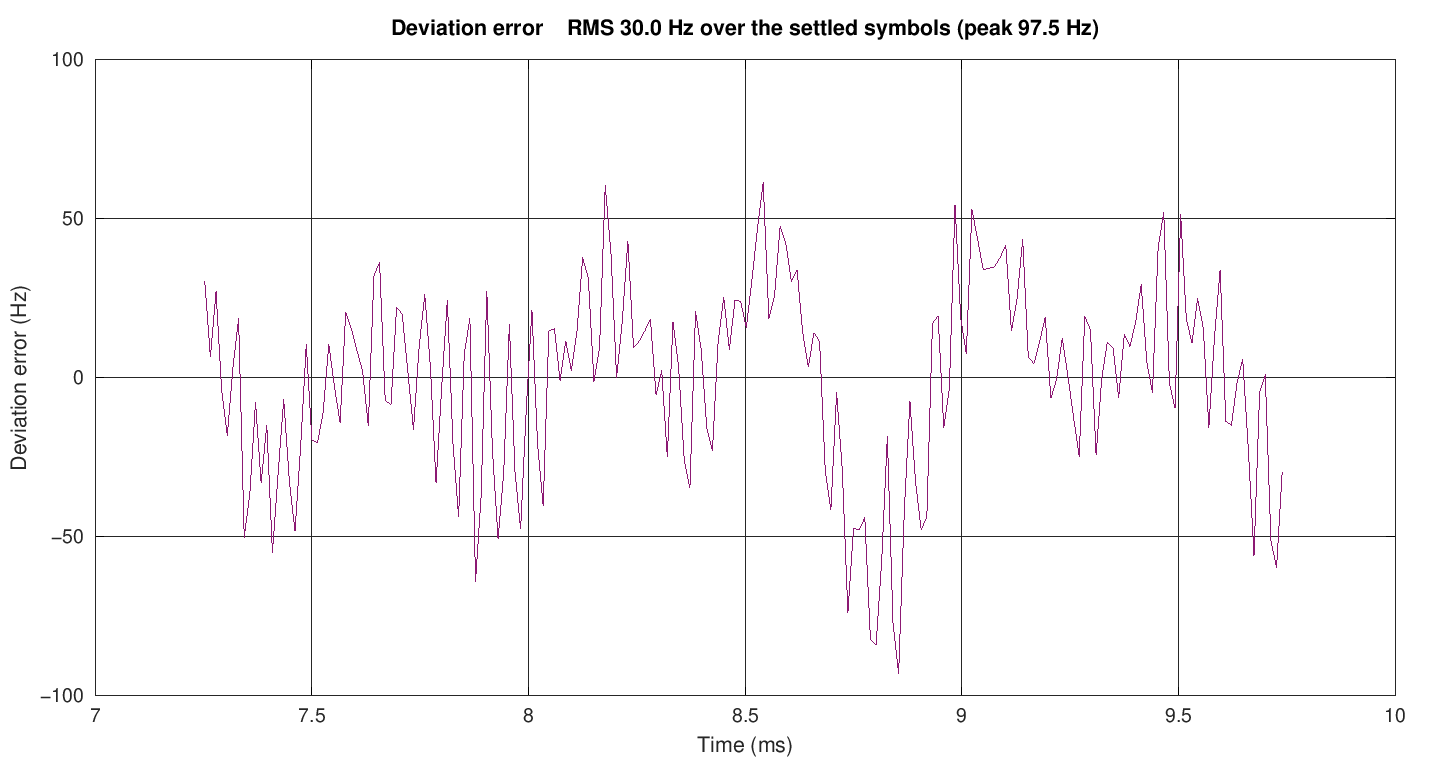
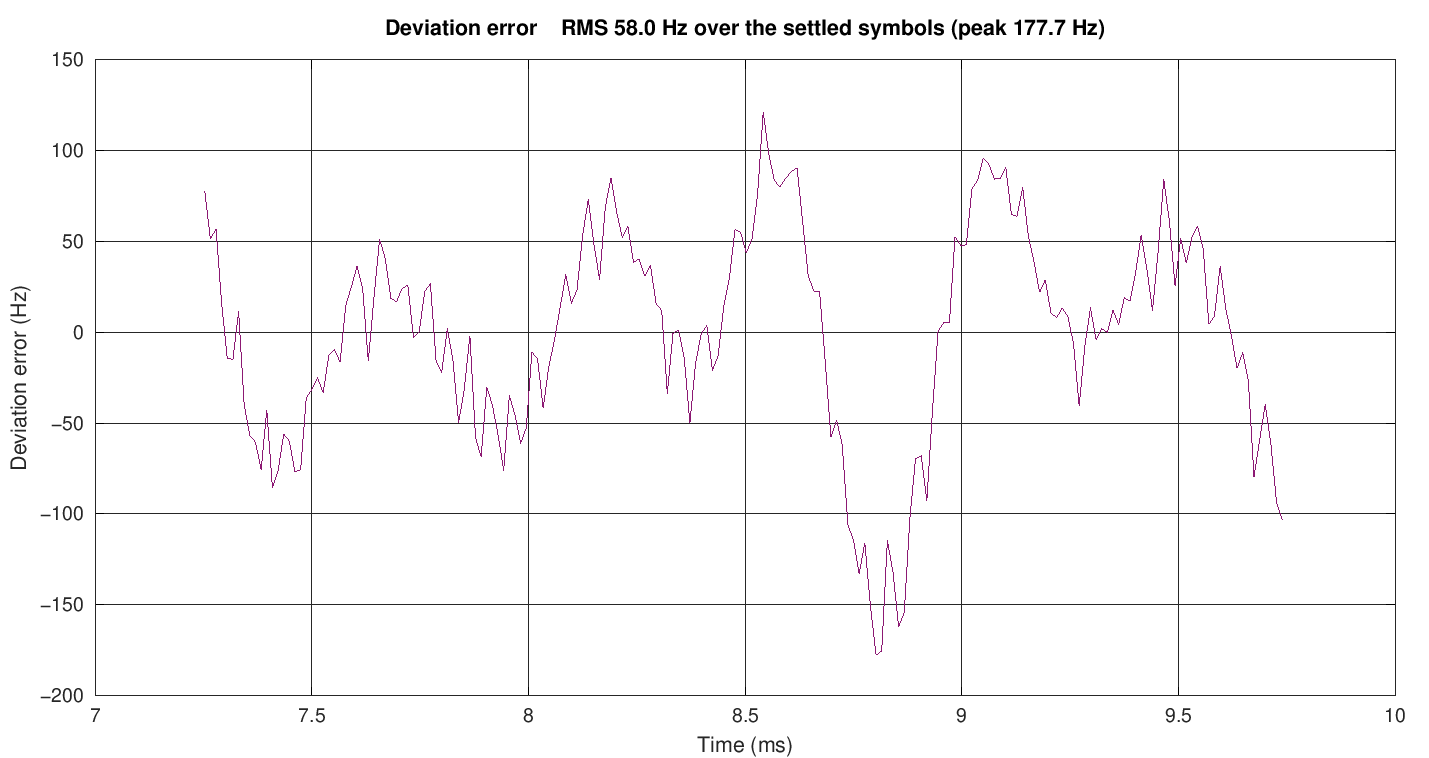
Soften the H-channel pre-emphasis shelf to about +8 dB.
The +16 dB lead matched SMF phase but lifted alternate-channel ACPR to -70.7 dBc. A +8 dB shelf keeps waveform FSK error at 1.66% and brings the mask alternate channel to -78.3 dBc.

diff --git a/dmr-2pt-synth/design_h_preemph.m b/dmr-2pt-synth/design_h_preemph.m
@@ -2,23 +2,25 @@ function [b, a, info] = design_h_preemph(fs, smfB, smfA)
 %DESIGN_H_PREEMPH  Band-limited inverse of the discrete SMF, for the H path.
 %  The 3rd-order SMF is almost unity gain through 6 kHz and lags by about
 %  15 deg at 3 kHz and 30 deg at 6 kHz. Its exact inverse has a triple pole
-%  at z = -1 and runs away at Nyquist. This 2nd-order lead matches 1/Gsmf
-%  from about 1 to 6 kHz (phase lead plus the small in-band boost) and
-%  levels off near +14 dB, so the boost above the DMR band stays finite.
+%  at z = -1 and runs away at Nyquist. This 2nd-order lead keeps a useful
+%  share of that phase through 3-6 kHz and levels off near +8 dB, so the
+%  12-bit step edges around 20-25 kHz are not boosted into the alternate
+%  channel. A tighter phase match (shelf near +16 dB) costs about 8 dB of
+%  alternate-channel ACPR. The loop bandwidth and phase margin are not
+%  part of this fit.
 %
 %  Analog prototype, DC gain 1, high-frequency gain (fp/fz)^2:
 %    H(s) = (fp/fz)^2 * (s^2 + (wz/Qz) s + wz^2) / (s^2 + (wp/Qp) s + wp^2)
-%  Corners were fitted at fs = 76800 Hz against the bilinear SMF. The loop
-%  bandwidth and phase margin are not part of this fit.
+%  Corners were fitted at fs = 76800 Hz against the bilinear SMF.
 
 if nargin < 1
     fs = 76800;
 end
 
-fz = 11952;
-gainRatio = 2.220;     % wp/wz; high-frequency magnitude gain is gainRatio^2
-Qz = 0.801;
-Qp = 1.247;
+fz = 7704.206;
+gainRatio = 1.55322;   % wp/wz; high-frequency magnitude gain is gainRatio^2
+Qz = 0.8601;
+Qp = 0.8980;
 wz = 2 * pi * fz;
 wp = wz * gainRatio;
 bb = (wp / wz)^2 * [1, wz / Qz, wz^2];
@@ -33,7 +35,7 @@ info.hfGain_dB = 20 * log10(gainRatio^2);
 info.b = b;
 info.a = a;
 
-probe = [3000, 6000];
+probe = [3000, 6000, 20000, 25000];
 for k = 1:numel(probe)
     [gdB, pd, pdSmf, gdProd, pdProd] = eval_at(b, a, smfB, smfA, fs, probe(k));
     info.(sprintf('f%d_Hz', probe(k))) = probe(k);

diff --git a/dmr-2pt-synth/plot_results.m b/dmr-2pt-synth/plot_results.m
@@ -21,7 +21,7 @@ i1 = R.iEx1;
 tex = tms(i0:i1);
 
 % ---- 1. baseband m(t) and symbol levels ----
-h = figure('visible', 'off');
+h = figure('visible', 'off', '__graphics_toolkit__', 'gnuplot');
 set(h, 'position', [40 40 980 520]);
 plot(tex, R.m(i0:i1), 'Color', [0.1 0.1 0.1], 'LineWidth', 1.3);
 hold on;
@@ -43,7 +43,7 @@ ylim([-3200 3200]);
 save_png(h, figDir, mediaDir, '01_baseband_mt_symbols.png');
 
 % ---- 2. each path's contribution ----
-h = figure('visible', 'off');
+h = figure('visible', 'off', '__graphics_toolkit__', 'gnuplot');
 set(h, 'position', [40 40 980 560]);
 plot(tex, R.m(i0:i1), 'Color', [0.45 0.45 0.45], 'LineWidth', 1.4);
 hold on;
@@ -59,7 +59,7 @@ legend('ideal m_q', 'PLL path only (lowpass)', 'VCO path only (highpass)', ...
 save_png(h, figDir, mediaDir, '02_path_contributions.png');
 
 % ---- 3. combined vs ideal, with lock ----
-h = figure('visible', 'off');
+h = figure('visible', 'off', '__graphics_toolkit__', 'gnuplot');
 set(h, 'position', [40 40 980 720]);
 subplot(2, 1, 1);
 acq = 1:R.nAcq;
@@ -80,7 +80,7 @@ legend('ideal m_q', 'synthesizer output', 'location', 'northeast');
 save_png(h, figDir, mediaDir, '03_combined_vs_ideal.png');
 
 % ---- 4. deviation error ----
-h = figure('visible', 'off');
+h = figure('visible', 'off', '__graphics_toolkit__', 'gnuplot');
 set(h, 'position', [40 40 980 520]);
 errEx = R.both.fDevRf(i0:i1) - R.m(i0:i1);
 plot(tex, errEx, 'Color', [0.55 0.1 0.45], 'LineWidth', 1.1);
@@ -92,7 +92,7 @@ title(sprintf('Deviation error    RMS %.1f Hz over the settled symbols (peak %.1
 save_png(h, figDir, mediaDir, '04_deviation_error.png');
 
 % ---- 5. output spectrum ----
-h = figure('visible', 'off');
+h = figure('visible', 'off', '__graphics_toolkit__', 'gnuplot');
 set(h, 'position', [40 40 980 720]);
 iv0 = R.iValid0;
 iv1 = R.iValid1;

diff --git a/dmr-2pt-synth/measure_fsk_acpr.m b/dmr-2pt-synth/measure_fsk_acpr.m
@@ -56,6 +56,12 @@ symInSlice = symSample - i0 + 1;
 fFloat = m(i0:i1);
 fCmd = mCmd(i0:i1);
 fSynth = out.fDevRf(i0:i1);
+out.hFullScale_Hz = 2047 * P.Km_HzPerV * P.dacVpp / (P.divSel * 4096);
+out.steadyMh_Hz = max(abs(out.m_h(iValid0:iValid1)));
+fprintf('  Hch full scale %.2f Hz, steady |m_h| %.2f Hz, headroom peak %.2f dB, steady %.2f dB\n', ...
+    out.hFullScale_Hz, out.steadyMh_Hz, ...
+    20 * log10(out.hFullScale_Hz / out.peakMh_Hz), ...
+    20 * log10(out.hFullScale_Hz / out.steadyMh_Hz));
 
 % Three fits. The reference is the second argument.
 fprintf('Fitting synthesizer vs pre-quantization m...\n');
@@ -271,7 +277,7 @@ fprintf('\n');
 end
 
 function plot_fsk(P, Rsm, Rsq, Rqm, symLevel)
-h = figure('visible', 'off');
+h = figure('visible', 'off', '__graphics_toolkit__', 'gnuplot');
 set(h, 'position', [40 40 980 760]);
 cM = [0.45 0.45 0.45];
 cQ = [0.75 0.35 0.05];
@@ -308,7 +314,7 @@ save_png(h, P, '06_fsk_error.png');
 end
 
 function plot_acpr(P, specM, specQ, specS, acM, acQ, acS)
-h = figure('visible', 'off');
+h = figure('visible', 'off', '__graphics_toolkit__', 'gnuplot');
 set(h, 'position', [40 40 980 640]);
 ref = max(specM.p);
 dbM = 10 * log10(specM.p / ref + 1e-30);
@@ -367,6 +373,8 @@ fprintf(fid, 'hpre_nyquist_dB %.4f\n', P.hpre.nyquist_dB);
 fprintf(fid, 'hch_clips %d\n', simOut.nDacClip);
 fprintf(fid, 'peak_mh_Hz %.4f\n', simOut.peakMh_Hz);
 fprintf(fid, 'peak_mq_Hz %.4f\n', simOut.peakMq_Hz);
+fprintf(fid, 'steady_mh_Hz %.4f\n', simOut.steadyMh_Hz);
+fprintf(fid, 'hch_fullscale_Hz %.4f\n', simOut.hFullScale_Hz);
 write_fit(fid, 'synth_vs_m', Rsm);
 write_fit(fid, 'synth_vs_mq', Rsq);
 write_fit(fid, 'mq_vs_m', Rqm);
